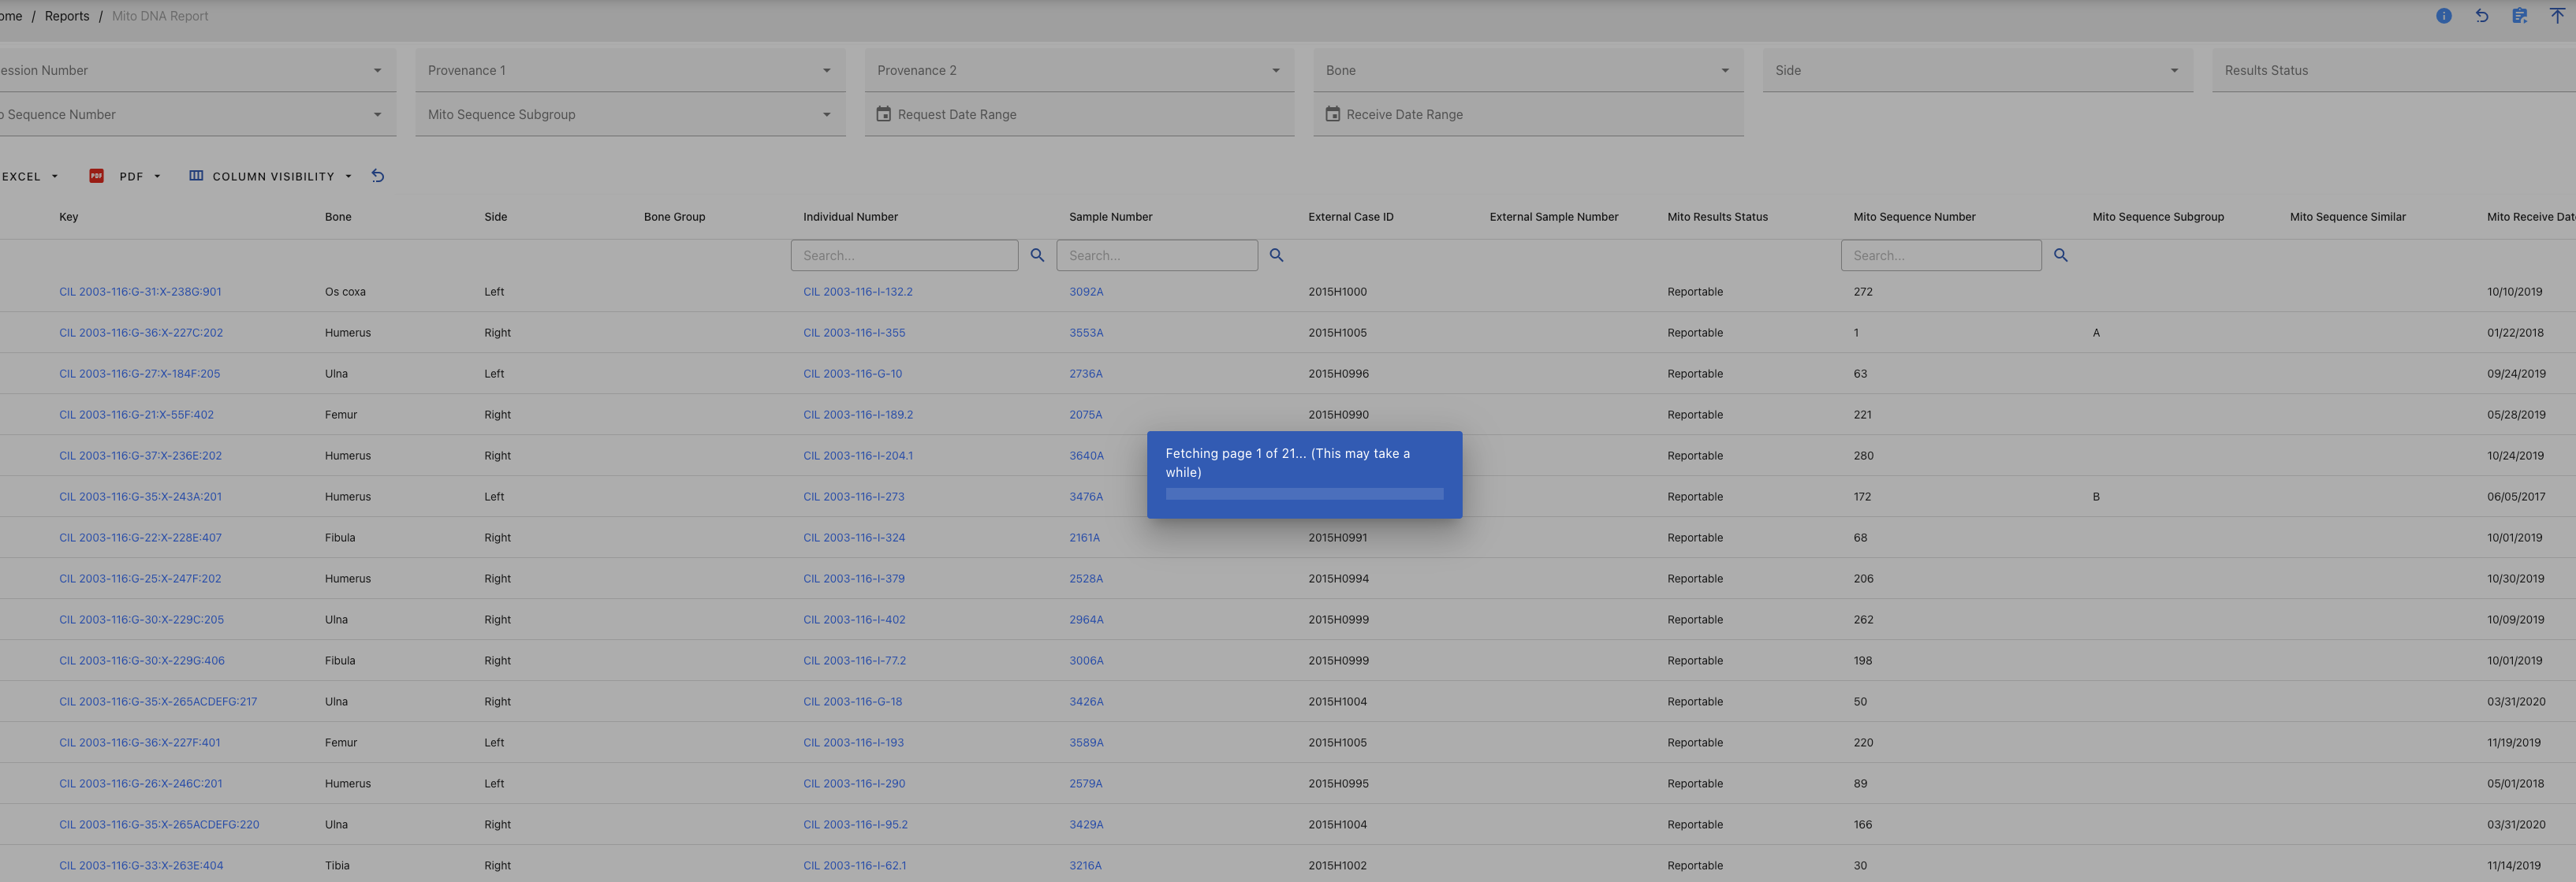
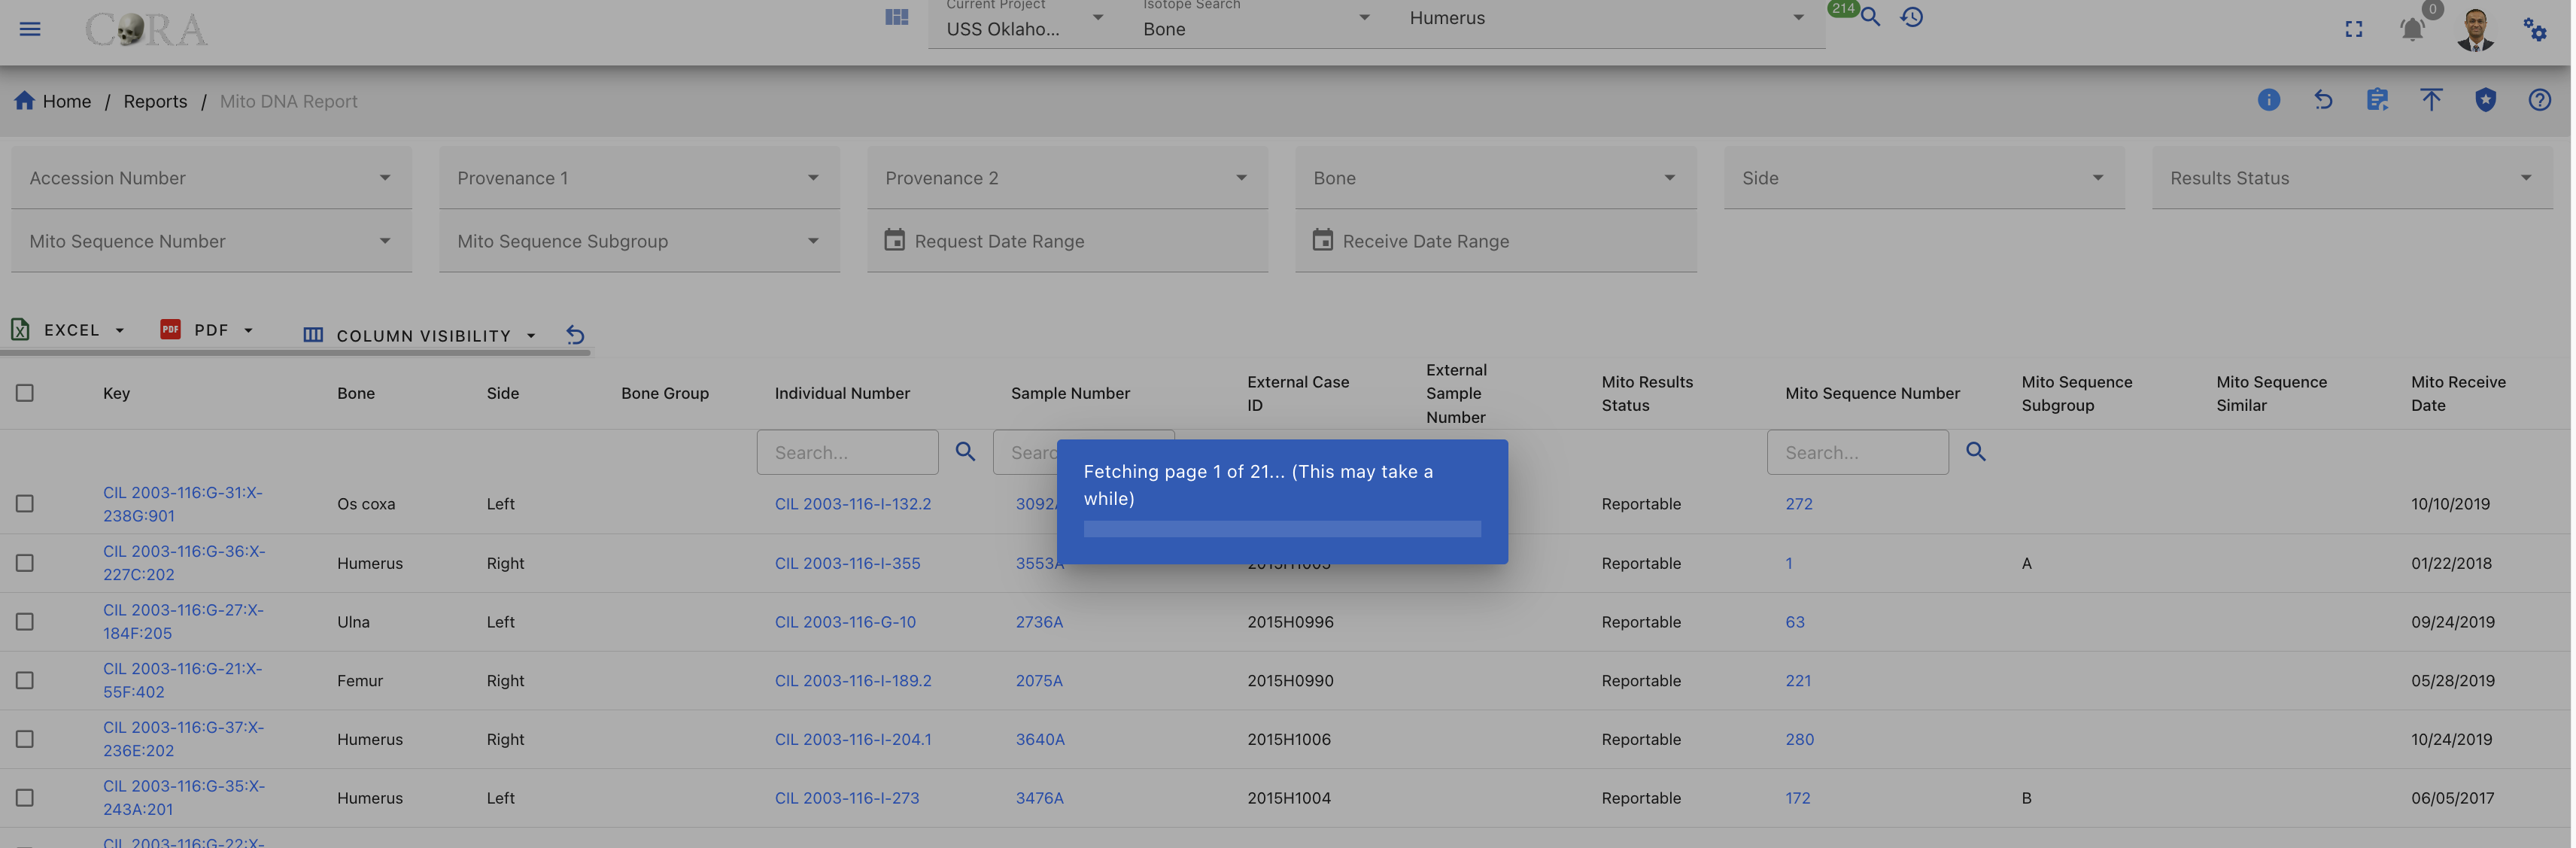
updated documentation for search excel & pdf export

diff --git a/docs/user-guide/search/index.md b/docs/user-guide/search/index.md
@@ -445,14 +445,13 @@ Along with the quick search capability CoRA also provides an advanced search and
 The reports dashboard has many reports and each report provides the ability to search using multiple search criteria. See the documentation
 on the [reports dashboard](../reports/project-reports.md)  
 
+---
 
-# Guideline: Exporting Data to Excel and PDF
+## Exporting Data
 
 This guide explains how to export data to **Excel** or **PDF** after performing a search or applying filters within the application.
 
----
-
-## 1. Search and Filter the Data
+### Data Search & Filter
 
 Before exporting the data, ensure that the correct dataset is displayed.
 
@@ -462,45 +461,47 @@ Before exporting the data, ensure that the correct dataset is displayed.
 
 ---
 
-## 2. Exporting Data to Excel
+### Excel Export
 
 Follow these steps to download the data in **Excel format**:
 
 1. Locate the **Excel Export** button in the menu bar above the data table.
 2. Click on the **Excel** option.
 
-![](docs/cora25-docs/user-guide/search/media/excel-export-options.png)
+![Excel Export Options](media/excel-export-options.png)
 
 3. After clicking the Excel button, two download options will appear:
 
 - **Current Page** – Downloads only the data displayed on the first page of the table.
 - **All Pages** – Downloads the entire dataset based on the applied search and filter criteria.
 
-
 4. If **All Data** is selected, a notification message will appear indicating that the download may take longer depending on the size of the dataset.
+
 5. Once processing is complete, the Excel file will automatically download to your computer.
-   ![](docs/cora25-docs/user-guide/search/media/excel-all-data-export.png)
+![Excel Export All Data Pages](media/excel-all-data-export.png)
 ---
 
-## 3. Exporting Data to PDF
+### PDF Export
 
 To download the data as a **PDF document**:
 
 1. Locate the **PDF Export** button in the menu bar near the Excel export option.
+
 2. Click the **PDF** button.
 
-![](docs/cora25-docs/user-guide/search/media/pdf-option.png)
+![PDF Export Options](media/pdf-export-options.png)
 
 3. After clicking the Excel button, two download options will appear:
 - **Current Page** – Downloads only the data displayed on the first page of the table.
 - **All Pages** – Downloads the entire dataset based on the applied search and filter criteria.
-
- ![](docs/cora25-docs/user-guide/search/media/pdf-export-options.png)
----
 4. If **All Data** is selected, a notification message will appear indicating that the download may take longer depending on the size of the dataset.
+
 5. Once processing is complete, the PDF file will automatically download to your computer.
-   ![](docs/cora25-docs/user-guide/search/media/pdf-export-all-data.png)
-## Notes
+![PDF Export All Data Pages](media/pdf-export-all-data.png)
+
+---
+
+### Notes
 
 - Ensure all **search, filter, and sorting options** are applied correctly before exporting.
 - Exporting **all data** may take additional time if the dataset is large.